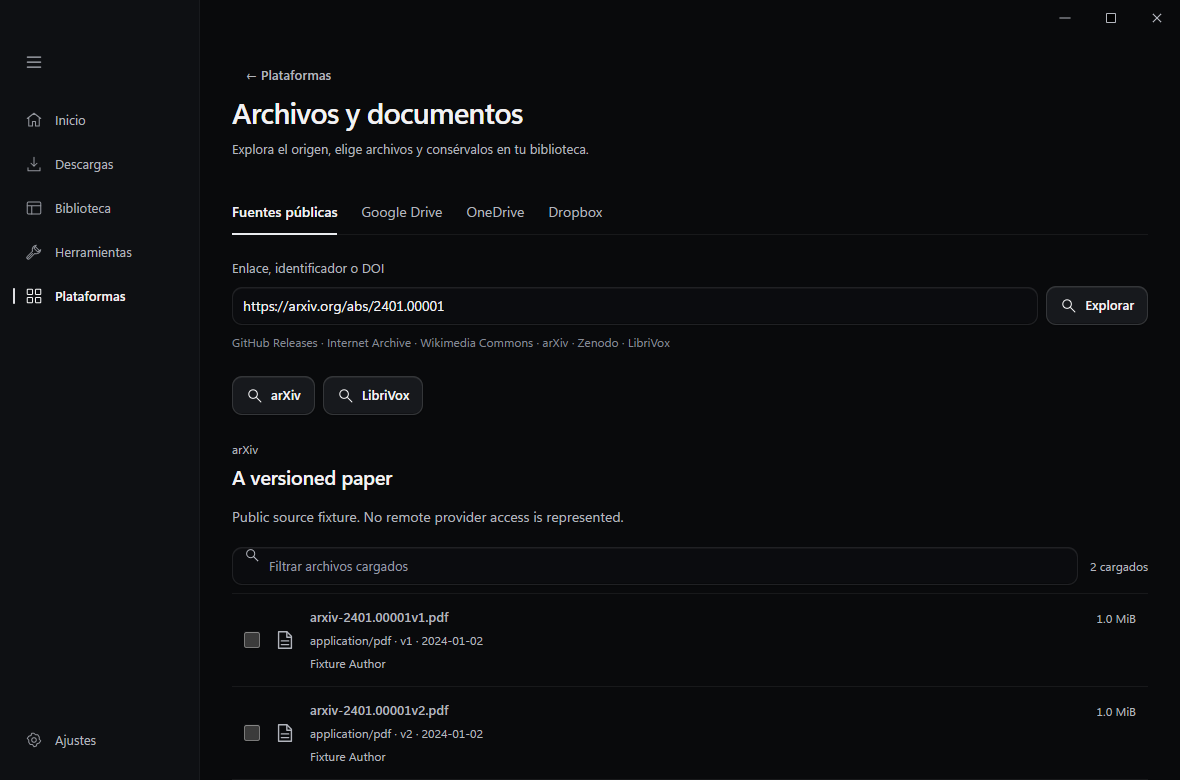
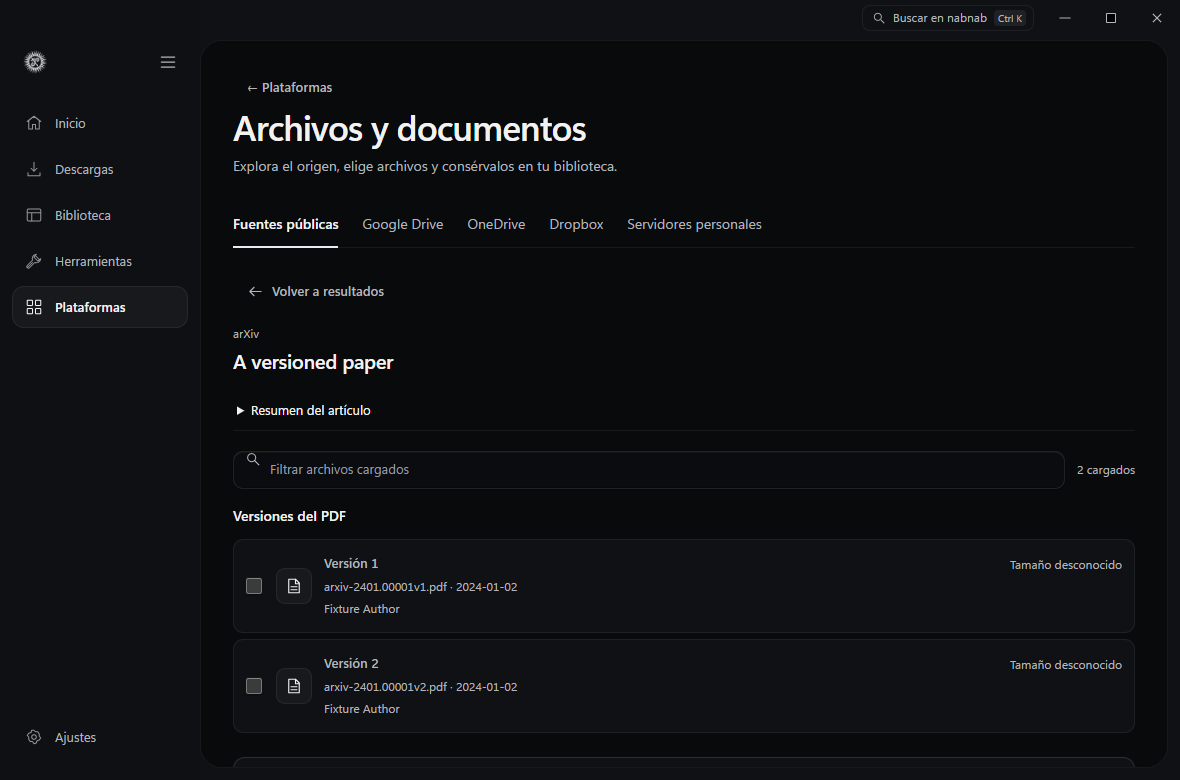
Refine research source browsing

diff --git a/src/file-sources-ui.ts b/src/file-sources-ui.ts
@@ -76,6 +76,7 @@ export function createFileSources(hooks: FileSourceHooks) {
   let arxivField = "title";
   let language = "";
   let publicPage: PublicPage | null = null;
+  let catalogReturn: { page: PublicPage; entryId: string; mode: CatalogSearch | null } | null = null;
   let cloudPage: CloudPage | null = null;
   let connections: ConnectionStatus[] | null = null;
   let connectionEditor: CloudProvider | null = null;
@@ -151,16 +152,36 @@ export function createFileSources(hooks: FileSourceHooks) {
   }
   function matchesPublicFilter(asset: PublicAsset): boolean {
     return (filter === "all" || asset.original === (filter === "original"))
-      && `${asset.filename} ${asset.title} ${asset.mime} ${asset.audiobook?.reader ?? ""}`.toLowerCase().includes(query.toLowerCase());
+      && `${asset.filename} ${asset.title} ${asset.mime} ${asset.version ?? ""} ${asset.audiobook?.reader ?? ""} ${asset.audiobook?.language ?? ""}`.toLowerCase().includes(query.toLowerCase());
+  }
+  function publicDescription(): string {
+    if (!publicPage?.description) return "";
+    const paragraph = `<p class="file-source-description">${h(publicPage.description)}</p>`;
+    if (isCatalogSearch(publicPage)) return paragraph;
+    const summary = publicPage.provider === "arxiv" ? t("Resumen del artículo", "Article abstract")
+      : publicPage.provider === "librivox" ? t("Detalles de la edición", "Edition details") : "";
+    return summary ? `<details class="file-source-abstract"><summary>${summary}</summary>${paragraph}</details>` : paragraph;
   }
   function publicRows(): string {
     if (!publicPage || !publicPage.assets.length && publicPage.entries.length) return "";
+    const { provider, rights } = publicPage;
+    const research = provider === "arxiv" || provider === "librivox";
     const visible = publicPage.assets.filter(matchesPublicFilter);
-    return `${publicPage.provider === "librivox" && visible.length ? `<div class="file-source-pagination">${action("file-source-select-chapters", t("Seleccionar capítulos visibles", "Select visible chapters"), "list", "quiet", busy || publicSelected.size >= 199 ? "disabled" : "")}</div>` : ""}<div class="file-source-list" role="group" aria-label="${t("Archivos disponibles", "Available files")}">${visible.map(asset => {
+    const group = provider === "arxiv" ? t("Versiones del PDF", "PDF versions") : provider === "librivox" ? t("Capítulos", "Chapters") : t("Archivos disponibles", "Available files");
+    const sectionHeading = research ? `<div class="file-source-list-heading"><h3>${group}</h3>${provider === "librivox" && visible.length ? action("file-source-select-chapters", t("Seleccionar capítulos visibles", "Select visible chapters"), "list", "quiet", busy || publicSelected.size >= 199 ? "disabled" : "") : ""}</div>` : "";
+    return `${sectionHeading}<div class="file-source-list${research ? " file-source-research-list" : ""}" role="group" aria-label="${group}">${visible.map(asset => {
       const chapter = asset.audiobook;
-      const title = chapter ? `${t("Capítulo", "Chapter")} ${chapter.chapter} · ${asset.title}` : asset.filename;
-      const metadata = [asset.mime, chapter ? null : asset.version, asset.publishedAt, chapter?.reader, chapter?.language, asset.platform, asset.architecture].filter(Boolean).join(" · ");
-      return `<label class="file-source-row ${publicSelected.has(asset.id) ? "is-selected" : ""}"><input type="checkbox" data-file-source-select="${h(asset.id)}" ${publicSelected.has(asset.id) ? "checked" : ""} ${busy || publicSelected.size >= 199 && !publicSelected.has(asset.id) ? "disabled" : ""}><span class="file-source-file-icon">${icon(asset.mime.startsWith("image/") ? "image" : asset.mime.startsWith("audio/") ? "audio" : "file")}</span><span class="file-source-row-main"><strong>${h(title)}</strong><small>${h(metadata)}</small>${publicPage?.provider === "archive" ? `<small>${asset.original ? t("Original", "Original") : t("Derivado", "Derivative")}</small>` : ""}${asset.author || asset.license ? `<small>${h([asset.author, asset.license].filter(Boolean).join(" · "))}</small>` : ""}${asset.checksum || asset.sha256 ? `<small class="file-source-checksum" title="${h(asset.checksum ?? asset.sha256 ?? "")}">${h(asset.checksum ?? `sha256:${asset.sha256}`)}</small>` : ""}</span><span class="file-source-size">${h(fileSize(asset.size, t))}</span></label>`;
+      const version = provider === "arxiv" ? asset.version?.match(/^v(\d+)$/)?.[1] : undefined;
+      const title = chapter ? asset.title : version ? `${t("Versión", "Version")} ${version}` : asset.filename;
+      const name = chapter ? `${t("Capítulo", "Chapter")} ${chapter.chapter} · ${title}` : version ? `${title} · ${asset.filename}` : "";
+      const metadata = [version ? asset.filename : chapter ? null : asset.mime, chapter || version ? null : asset.version, asset.publishedAt, chapter?.reader, chapter?.language, asset.platform, asset.architecture].filter(Boolean).join(" · ");
+      const attribution = [asset.author, research && rights === asset.license ? null : asset.license].filter(Boolean).join(" · ");
+      const checked = publicSelected.has(asset.id);
+      return `<label class="file-source-row ${checked ? "is-selected" : ""}">
+        <input type="checkbox" data-file-source-select="${h(asset.id)}" ${name ? `aria-label="${h(name)}"` : ""} ${checked ? "checked" : ""} ${busy || publicSelected.size >= 199 && !checked ? "disabled" : ""}>
+        <span class="file-source-file-icon" aria-hidden="true">${chapter ? String(chapter.chapter).padStart(2, "0") : icon(asset.mime.startsWith("image/") ? "image" : asset.mime.startsWith("audio/") ? "audio" : "file")}</span>
+        <span class="file-source-row-main"><strong>${h(title)}</strong>${metadata ? `<small>${h(metadata)}</small>` : ""}${provider === "archive" ? `<small>${asset.original ? t("Original", "Original") : t("Derivado", "Derivative")}</small>` : ""}${attribution ? `<small>${h(attribution)}</small>` : ""}${asset.checksum || asset.sha256 ? `<small class="file-source-checksum" title="${h(asset.checksum ?? asset.sha256 ?? "")}">${h(asset.checksum ?? `sha256:${asset.sha256}`)}</small>` : ""}</span>
+        <span class="file-source-size">${h(fileSize(asset.size, t))}</span></label>`;
     }).join("") || `<p class="file-source-empty">${t("No hay archivos con este filtro.", "No files match this filter.")}</p>`}</div>`;
   }
   function cloudRows(): string {
@@ -179,7 +200,8 @@ export function createFileSources(hooks: FileSourceHooks) {
     if (tab === "public" ? !publicPage?.assets.length : !cloudPage) return "";
     const knownSize = selected.reduce((sum, item) => sum + (item.size ?? 0), 0);
     const unknown = selected.some(item => item.size === null);
-    return `<div class="file-source-selection"><div class="file-source-selection-title"><strong>${selected.length} ${t("seleccionados", "selected")}</strong><span>${selected.length ? h(fileSize(knownSize, t)) + (unknown ? ` + ${t("tamaño pendiente", "unknown size")}` : "") : t("Selecciona los archivos que quieras conservar", "Select the files you want to keep")}</span>${selected.length ? action("file-source-clear", t("Quitar selección", "Clear selection"), undefined, "quiet", busy ? "disabled" : "") : ""}</div><label>${t("Colección, opcional", "Collection, optional")}<input id="file-source-collection" value="${h(collection)}" maxlength="120" placeholder="${t("Sin colección", "No collection")}" ${busy ? "disabled" : ""}></label><div class="file-source-destination"><span>${t("Destino", "Destination")}</span><strong title="${h(hooks.folder())}">${h(hooks.folder())}</strong>${hooks.chooseFolder ? action("file-source-destination", t("Cambiar", "Change"), "folder", "quiet", busy ? "disabled" : "") : ""}</div>${action("file-source-queue", busy === "queue" ? t("Añadiendo…", "Adding…") : t("Añadir a Descargas", "Add to Downloads"), "downloads", "primary", busy || !selected.length ? "disabled" : "")}</div>`;
+    const total = unknown && knownSize === 0 ? fileSize(null, t) : fileSize(knownSize, t) + (unknown ? ` + ${t("tamaño pendiente", "unknown size")}` : "");
+    return `<div class="file-source-selection"><div class="file-source-selection-title"><strong>${selected.length} ${t("seleccionados", "selected")}</strong><span>${selected.length ? h(total) : t("Selecciona los archivos que quieras conservar", "Select the files you want to keep")}</span>${selected.length ? action("file-source-clear", t("Quitar selección", "Clear selection"), undefined, "quiet", busy ? "disabled" : "") : ""}</div><label>${t("Colección, opcional", "Collection, optional")}<input id="file-source-collection" value="${h(collection)}" maxlength="120" placeholder="${t("Sin colección", "No collection")}" ${busy ? "disabled" : ""}></label><div class="file-source-destination"><span>${t("Destino", "Destination")}</span><strong title="${h(hooks.folder())}">${h(hooks.folder())}</strong>${hooks.chooseFolder ? action("file-source-destination", t("Cambiar", "Change"), "folder", "quiet", busy ? "disabled" : "") : ""}</div>${action("file-source-queue", busy === "queue" ? t("Añadiendo…", "Adding…") : t("Añadir a Descargas", "Add to Downloads"), "downloads", "primary", busy || !selected.length ? "disabled" : "")}</div>`;
   }
   function connectionCard(provider: CloudProvider): string {
     const connection = status(provider);
@@ -199,12 +221,13 @@ export function createFileSources(hooks: FileSourceHooks) {
     const hasPage = isPublic ? Boolean(publicPage) : Boolean(cloudPage);
     const cursor = isPublic ? publicPage?.nextCursor : cloudPage?.nextCursor;
     return `${header}
-      ${isPublic ? `<form id="file-source-form" class="file-source-form"><label for="file-source-url">${t("Enlace, identificador o DOI", "Link, identifier or DOI")}</label><div><input id="file-source-url" type="text" required value="${h(url)}" maxlength="8192" placeholder="https://… · arXiv:2401.00001 · 10.5281/zenodo.1234" autocomplete="off" spellcheck="false" ${busy ? "disabled" : ""}><button type="submit" class="button secondary" ${busy ? "disabled" : ""}>${icon("search")}${t("Explorar", "Browse")}</button></div><p class="field-note">GitHub Releases · Internet Archive · Wikimedia Commons · arXiv · Zenodo · LibriVox</p></form>${catalogSearch()}` : `<div class="file-source-cloud-toolbar"><div><strong>${h(cloudName(provider))}</strong><p class="field-note">${t("Solo los archivos a los que tu cuenta tiene acceso.", "Only files your account can access.")}</p></div>${action("file-source-cloud-root", t("Mis archivos", "My files"), "folder", "secondary", busy || !status(provider)?.connected ? "disabled" : "")}${action("cloud-configure-open", t("Conexión", "Connection"), "settings", "quiet", `data-provider="${tab}" ${busy ? "disabled" : ""}`)}</div><form id="cloud-shared-form" class="file-source-form"><label for="cloud-shared-url">${t("Enlace compartido, opcional", "Shared link, optional")}</label><div><input id="cloud-shared-url" type="url" value="${h(sharedUrl ?? "")}" maxlength="8192" placeholder="https://…" autocomplete="off" spellcheck="false" ${busy ? "disabled" : ""}><button class="button secondary" type="submit" ${busy || !status(provider)?.connected ? "disabled" : ""}>${t("Abrir enlace", "Open link")}</button></div></form>${connectionEditor === tab || !status(provider)?.connected ? connectionCard(provider) : ""}`}
+      ${isPublic ? catalogReturn ? "" : `<form id="file-source-form" class="file-source-form"><label for="file-source-url">${t("Enlace, identificador o DOI", "Link, identifier or DOI")}</label><div><input id="file-source-url" type="text" required value="${h(url)}" maxlength="8192" placeholder="https://… · arXiv:2401.00001 · 10.5281/zenodo.1234" autocomplete="off" spellcheck="false" ${busy ? "disabled" : ""}><button type="submit" class="button secondary" ${busy ? "disabled" : ""}>${icon("search")}${t("Explorar", "Browse")}</button></div><p class="field-note">GitHub Releases · Internet Archive · Wikimedia Commons · arXiv · Zenodo · LibriVox</p></form>${catalogSearch()}` : `<div class="file-source-cloud-toolbar"><div><strong>${h(cloudName(provider))}</strong><p class="field-note">${t("Solo los archivos a los que tu cuenta tiene acceso.", "Only files your account can access.")}</p></div>${action("file-source-cloud-root", t("Mis archivos", "My files"), "folder", "secondary", busy || !status(provider)?.connected ? "disabled" : "")}${action("cloud-configure-open", t("Conexión", "Connection"), "settings", "quiet", `data-provider="${tab}" ${busy ? "disabled" : ""}`)}</div><form id="cloud-shared-form" class="file-source-form"><label for="cloud-shared-url">${t("Enlace compartido, opcional", "Shared link, optional")}</label><div><input id="cloud-shared-url" type="url" value="${h(sharedUrl ?? "")}" maxlength="8192" placeholder="https://…" autocomplete="off" spellcheck="false" ${busy ? "disabled" : ""}><button class="button secondary" type="submit" ${busy || !status(provider)?.connected ? "disabled" : ""}>${t("Abrir enlace", "Open link")}</button></div></form>${connectionEditor === tab || !status(provider)?.connected ? connectionCard(provider) : ""}`}
+      ${isPublic && catalogReturn ? `<div class="file-source-return">${action("file-source-back-results", t("Volver a resultados", "Back to results"), "back", "quiet", busy ? "disabled" : "")}</div>` : ""}
       ${error ? `<div class="file-source-error" role="alert">${icon("error")}<span>${h(error)}</span></div>` : ""}${busy === "inspect" || busy === "connect" ? `<div class="file-source-progress" role="status"><span>${busy === "connect" ? t("Esperando autorización en el navegador…", "Waiting for browser authorization…") : t("Consultando archivos del origen…", "Reading source files…")}</span>${action("file-source-cancel", t("Cancelar", "Cancel"), "close", "quiet")}</div>` : ""}
-      ${hasPage ? `<div class="file-source-results"><div class="file-source-result-heading"><div><span class="file-source-eyebrow">${isPublic ? h(publicPage ? publicNames[publicPage.provider] : "") : h(cloudName(provider))}</span><h2>${h(isPublic ? publicPage?.title ?? "" : trail.at(-1)?.name ?? t("Mis archivos", "My files"))}</h2></div>${isPublic && (publicPage?.provider === "github" || isSearch) && hooks.followSource ? action("file-source-follow", isSearch ? t("Seguir búsqueda", "Follow search") : t("Seguir versiones", "Follow releases"), "add", "quiet", busy ? "disabled" : "") : ""}${!isPublic && trail.length ? action("file-source-parent", t("Volver", "Back"), undefined, "quiet", busy ? "disabled" : "") : ""}</div>${isPublic && publicPage?.description ? `<p class="file-source-description">${h(publicPage.description)}</p>` : ""}${isPublic && publicPage?.rights ? `<p class="field-note">${t("Derechos indicados por el origen", "Rights stated by the source")}: ${h(publicPage.rights)}</p>` : ""}${warningList(isPublic ? publicPage?.warnings ?? [] : cloudPage?.warnings ?? [])}
+      ${hasPage ? `<div class="file-source-results"><div class="file-source-result-heading"><div><span class="file-source-eyebrow">${isPublic ? h(publicPage ? publicNames[publicPage.provider] : "") : h(cloudName(provider))}</span><h2${isPublic && catalogReturn ? ' tabindex="-1"' : ""}>${h(isPublic ? publicPage?.title ?? "" : trail.at(-1)?.name ?? t("Mis archivos", "My files"))}</h2></div>${isPublic && (publicPage?.provider === "github" || isSearch) && hooks.followSource ? action("file-source-follow", isSearch ? t("Seguir búsqueda", "Follow search") : t("Seguir versiones", "Follow releases"), "add", "quiet", busy ? "disabled" : "") : ""}${!isPublic && trail.length ? action("file-source-parent", t("Volver", "Back"), undefined, "quiet", busy ? "disabled" : "") : ""}</div>${isPublic ? publicDescription() : ""}${isPublic && publicPage?.rights ? `<p class="field-note">${t("Derechos indicados por el origen", "Rights stated by the source")}: ${h(publicPage.rights)}</p>` : ""}${warningList(isPublic ? publicPage?.warnings ?? [] : cloudPage?.warnings ?? [])}
         ${isPublic && publicPage?.entries.length ? `<div class="file-source-entries">${publicPage.entries.map(entry => `<button type="button" class="file-source-entry" data-action="file-source-entry" data-id="${h(entry.id)}" ${busy ? "disabled" : ""}><span><strong>${h(entry.title)}</strong><small>${h(entry.publishedAt ?? "")}</small></span>${publicPage?.provider === "github" ? `<span class="file-source-status">${entry.prerelease ? "Prerelease" : t("Estable", "Stable")}</span>` : ""}${icon("arrow")}</button>`).join("")}</div>` : ""}
         ${(isPublic ? publicPage?.assets.length : cloudPage?.entries.length) ? `<div class="file-source-filter"><label>${icon("search")}<input id="file-source-query" type="search" value="${h(query)}" placeholder="${t("Filtrar archivos cargados", "Filter loaded files")}" aria-label="${t("Filtrar archivos cargados", "Filter loaded files")}"></label>${isPublic && publicPage?.provider === "archive" ? `<select id="file-source-kind" aria-label="${t("Tipo de archivo", "File type")}">${option("all", t("Originales y derivados", "Originals and derivatives"), filter)}${option("original", t("Solo originales", "Originals only"), filter)}${option("derivative", t("Solo derivados", "Derivatives only"), filter)}</select>` : ""}<span>${isPublic ? publicPage?.assets.length ?? 0 : cloudPage?.entries.length ?? 0} ${t("cargados", "loaded")}</span></div>` : ""}${isPublic ? publicRows() : cloudRows()}
-        ${cursor ? `<div class="file-source-pagination"><p>${t("Solo se ha cargado una parte del origen. La selección incluye únicamente archivos revisados.", "Only part of this source has loaded. Selection includes reviewed files only.")}</p>${action("file-source-more", t("Cargar más", "Load more"), "add", "secondary", busy ? "disabled" : "")}</div>` : !isPublic && cloudPage?.partial ? `<p class="field-note">${t("El origen informa de resultados parciales. Revisa los avisos antes de descargar.", "The source reports partial results. Review warnings before downloading.")}</p>` : ""}</div>` : !busy && isPublic ? `<div class="file-source-intro">${icon("folder")}<h2>${t("Elige qué conservar", "Choose what to keep")}</h2><p>${t("Consulta versiones y archivos antes de descargar. No se selecciona ningún formato automáticamente.", "Review versions and files before downloading. No format is selected automatically.")}</p><div><span>GitHub</span><small>${t("Versiones y assets publicados", "Versions and published assets")}</small><span>Internet Archive</span><small>${t("Originales, derivados y procedencia", "Originals, derivatives and provenance")}</small><span>Commons</span><small>${t("Imágenes y atribución por archivo", "Images and attribution per file")}</small></div></div>` : ""}${selectionFooter()}<p class="file-source-footnote">${t("Descargar conserva una copia local. No ejecuta archivos, instala programas ni modifica el origen.", "Downloading keeps a local copy. It does not run files, install software or modify the source.")}</p></section>`;
+        ${cursor ? `<div class="file-source-pagination"><p>${t("Solo se ha cargado una parte del origen. La selección incluye únicamente archivos revisados.", "Only part of this source has loaded. Selection includes reviewed files only.")}</p>${action("file-source-more", t("Cargar más", "Load more"), "add", "secondary", busy ? "disabled" : "")}</div>` : !isPublic && cloudPage?.partial ? `<p class="field-note">${t("El origen informa de resultados parciales. Revisa los avisos antes de descargar.", "The source reports partial results. Review warnings before downloading.")}</p>` : ""}</div>` : !busy && isPublic && !catalogReturn ? `<div class="file-source-intro">${icon("folder")}<h2>${t("Elige qué conservar", "Choose what to keep")}</h2><p>${t("Consulta versiones y archivos antes de descargar. No se selecciona ningún formato automáticamente.", "Review versions and files before downloading. No format is selected automatically.")}</p><div><span>GitHub</span><small>${t("Versiones y assets publicados", "Versions and published assets")}</small><span>Internet Archive</span><small>${t("Originales, derivados y procedencia", "Originals, derivatives and provenance")}</small><span>Commons</span><small>${t("Imágenes y atribución por archivo", "Images and attribution per file")}</small></div></div>` : ""}${selectionFooter()}<p class="file-source-footnote">${t("Descargar conserva una copia local. No ejecuta archivos, instala programas ni modifica el origen.", "Downloading keeps a local copy. It does not run files, install software or modify the source.")}</p></section>`;
   }
   function handleInput(element: HTMLElement): boolean {
     if (element instanceof HTMLInputElement) {
@@ -236,11 +259,11 @@ export function createFileSources(hooks: FileSourceHooks) {
   }
   async function handleSubmit(form: HTMLFormElement): Promise<boolean> {
     if (form.id === "file-source-form") {
-      if (form.reportValidity()) { searchMode = null; await inspectPublic(); }
+      if (!busy && form.reportValidity()) { catalogReturn = null; searchMode = null; await inspectPublic(); }
       return true;
     }
     if (form.id === "file-source-catalog-form") {
-      if (searchMode && form.reportValidity() && searchQuery.trim()) {
+      if (!busy && searchMode && form.reportValidity() && searchQuery.trim()) {
         const search = new URL(searchMode === "arxiv" ? "https://arxiv.org/search/" : "https://librivox.org/search/");
         if (searchMode === "arxiv") {
           search.searchParams.set("field", arxivField);
@@ -249,6 +272,7 @@ export function createFileSources(hooks: FileSourceHooks) {
           search.searchParams.set("title", searchQuery.trim());
           if (language.trim()) search.searchParams.set("language", language.trim());
         }
+        catalogReturn = null;
         url = search.href;
         await inspectPublic();
       }
@@ -274,12 +298,36 @@ export function createFileSources(hooks: FileSourceHooks) {
         const value = element.dataset.tab;
         if (value === "personal") { openPersonal(); await hooks.loadPersonal(); break; }
         if (busy || value !== "public" && (!value || !isCloud(value))) break;
-        tab = value; error = ""; cloudPage = null; publicPage = null; url = ""; folder = null; sharedUrl = null; trail = []; clearSelection(); hooks.render();
+        tab = value; error = ""; cloudPage = null; publicPage = null; catalogReturn = null; url = ""; folder = null; sharedUrl = null; trail = []; clearSelection(); hooks.render();
         if (value !== "public") { await loadConnections(); if (status(value)?.connected) await browseCloud(); }
       } break;
       case "file-source-entry": {
         const entry = publicPage?.entries.find(value => value.id === element.dataset.id);
-        if (entry && !busy) { url = entry.url; searchMode = null; await inspectPublic(); }
+        if (entry && !busy) {
+          if (publicPage && isCatalogSearch(publicPage)) catalogReturn = { page: publicPage, entryId: entry.id, mode: searchMode };
+          url = entry.url;
+          searchMode = null;
+          await inspectPublic();
+          if (catalogReturn) {
+            const target = document.querySelector<HTMLElement>(".file-source-result-heading h2[tabindex='-1']")
+              ?? document.querySelector<HTMLElement>('[data-action="file-source-back-results"]');
+            target?.focus();
+          }
+        }
+      } break;
+      case "file-source-back-results": {
+        if (!catalogReturn || busy) break;
+        const { page, entryId, mode } = catalogReturn;
+        catalogReturn = null;
+        publicPage = page;
+        url = page.sourceUrl;
+        searchMode = mode;
+        error = "";
+        query = "";
+        filter = "all";
+        publicSelected.clear();
+        hooks.render();
+        document.querySelector<HTMLElement>(`[data-action="file-source-entry"][data-id="${CSS.escape(entryId)}"]`)?.focus();
       } break;
       case "file-source-folder": {
         const entry = cloudPage?.entries.find(value => value.selection.id === element.dataset.id && value.kind === "folder");
@@ -366,6 +414,7 @@ export function createFileSources(hooks: FileSourceHooks) {
     if (busy) return;
     tab = "public";
     publicPage = null;
+    catalogReturn = null;
     clearSelection();
     error = "";
     url = "";
@@ -381,7 +430,7 @@ export function createFileSources(hooks: FileSourceHooks) {
     let host = "";
     try { host = new URL(input).hostname.toLowerCase(); } catch { /* The provider returns the actionable URL error. */ }
     const cloud: CloudProvider | null = host === "drive.google.com" || host === "docs.google.com" ? "drive" : host === "1drv.ms" || host === "onedrive.live.com" || host.endsWith(".sharepoint.com") ? "onedrive" : host === "dropbox.com" || host.endsWith(".dropbox.com") ? "dropbox" : null;
-    clearSelection(); publicPage = null; cloudPage = null; query = ""; folder = null; trail = [];
+    clearSelection(); publicPage = null; catalogReturn = null; cloudPage = null; query = ""; folder = null; trail = [];
     if (cloud) { tab = cloud; sharedUrl = input; await loadConnections(); if (status(cloud)?.connected) await browseCloud(); else hooks.render(); }
     else { tab = "public"; url = input; searchMode = null; sharedUrl = null; await inspectPublic(); }
   }

diff --git a/src/file-sources.css b/src/file-sources.css
@@ -19,6 +19,12 @@
 .file-source-result-heading h2 { margin: 4px 0 0; font-size: 20px; font-weight: 600; letter-spacing: -.3px; overflow-wrap: anywhere; }
 .file-source-eyebrow { font-size: 12px; color: var(--muted); }
 .file-source-description { color: var(--muted); white-space: pre-line; overflow-wrap: anywhere; max-height: 160px; overflow: auto; margin-bottom: 16px; }
+.file-source-return { margin-top: 16px; }
+.file-source-return + .file-source-results { margin-top: 12px; }
+.file-source-abstract { margin-bottom: 16px; border-bottom: 1px solid var(--edge-quiet); }
+.file-source-abstract > summary { padding: 10px 4px; font-size: 13px; cursor: pointer; }
+.file-source-abstract > .file-source-description { max-height: none; margin: 4px 4px 14px; max-width: 74ch; }
+.file-source-abstract > summary:focus-visible, .file-source-result-heading h2[tabindex]:focus-visible { outline: 2px solid var(--action); outline-offset: 2px; border-radius: 4px; }
 .file-source-warnings { list-style: disc; padding: 12px 16px 12px 32px; margin: 16px 0; border-left: 2px solid var(--muted); background: var(--secondary); color: var(--muted); font-size: 13px; }
 .file-source-warnings li + li { margin-top: 8px; }
 .file-source-entries { border-block: 1px solid var(--edge-quiet); }
@@ -46,6 +52,15 @@ label.file-source-row { cursor: pointer; }
 .file-source-row-main strong { display: block; font-weight: 500; overflow-wrap: anywhere; }
 .file-source-row-main small { display: block; color: var(--muted); font-size: 12px; margin-top: 4px; overflow-wrap: anywhere; }
 .file-source-size { font-size: 12px; color: var(--muted); white-space: nowrap; align-self: start; padding-top: 2px; }
+.file-source-list-heading { display: flex; align-items: center; justify-content: space-between; flex-wrap: wrap; gap: 4px 12px; margin: 12px 0 8px; min-height: 30px; }
+.file-source-list-heading > h3 { margin: 0; font-size: 14px; font-weight: 600; }
+.file-source-research-list { display: grid; gap: 6px; border: 0; }
+.file-source-research-list .file-source-row { grid-template-columns: 18px 36px minmax(0, 1fr) auto; border: 1px solid var(--edge-quiet); border-radius: 10px; background: var(--secondary); }
+.file-source-research-list .file-source-row.is-selected { background: var(--surface); border-color: var(--action); }
+.file-source-research-list .file-source-row:has(input:focus-visible) { outline: 2px solid var(--action); outline-offset: 2px; }
+.file-source-research-list .file-source-file-icon { display: grid; place-items: center; width: 36px; height: 36px; border: 1px solid var(--edge-quiet); border-radius: 9px; background: var(--surface); color: var(--text); font-variant-numeric: tabular-nums; font-weight: 600; }
+.file-source-research-list .file-source-file-icon svg { width: 18px; height: 18px; }
+.file-source-research-list .file-source-row-main strong { font-weight: 600; }
 .file-source-folder { display: block; min-width: 0; background: none; border: 0; color: var(--text); font: inherit; text-align: left; padding: 4px 0; cursor: pointer; }
 .file-source-folder strong { display: block; font-weight: 500; overflow-wrap: anywhere; }
 .file-source-folder small { display: block; margin-top: 4px; color: var(--muted); font-size: 12px; overflow-wrap: anywhere; }
@@ -94,6 +109,7 @@ label.file-source-row { cursor: pointer; }
   .file-source-tabs button:hover:not(:disabled) { color: var(--text); }
   .file-source-row:hover, .file-source-entry:hover:not(:disabled) { background: var(--hover); }
   .file-source-folder:hover:not(:disabled) { color: var(--action); }
+  .file-source-research-list .file-source-row:hover:not(.is-selected):has(input:enabled) { background: var(--hover); }
 }
 @media (max-width: 1050px) {
   .file-source-selection { position: static; grid-template-columns: minmax(0, 1fr) auto; padding: 16px; }
@@ -103,6 +119,7 @@ label.file-source-row { cursor: pointer; }
 @media (max-width: 700px) {
   .file-source-tabs { gap: 4px 16px; }
   .file-source-row { gap: 8px; padding-inline: 8px; grid-template-columns: 18px 20px minmax(0, 1fr); }
+  .file-source-research-list .file-source-row { grid-template-columns: 18px 36px minmax(0, 1fr); }
   .file-source-size { grid-column: 3; padding-top: 0; }
   .file-source-form > div { flex-wrap: wrap; }
   .file-source-form input { min-width: 180px; }

diff --git a/docs/RESEARCH-SOURCES.md b/docs/RESEARCH-SOURCES.md
@@ -1,11 +1,11 @@
 # Investigación y audiolibros
 
-En **Plataformas → Archivos y documentos**, pega un enlace, un identificador o un DOI. Selecciona los archivos, revisa el tamaño y el destino, y usa **Añadir a Descargas**. También puedes pegar enlaces de estos orígenes en Inicio. Las búsquedas de arXiv y LibriVox se pueden guardar en **Biblioteca → Fuentes** para revisarlas manualmente.
+En **Plataformas → Archivos y documentos**, pega un enlace, un identificador o un DOI. Selecciona los archivos, revisa el tamaño y el destino, y usa **Añadir a Descargas**. También puedes pegar enlaces de estos orígenes en Inicio. Las búsquedas de arXiv y LibriVox se pueden guardar en **Biblioteca → Fuentes** para revisarlas manualmente. Dentro de una ficha, **Volver a resultados** recupera las páginas ya cargadas y devuelve el foco a la fila que abriste.
 
 ## arXiv
 
 - Busca por título, autor o categoría. Puedes abrir un identificador como `arXiv:2401.00001` o un enlace de artículo.
-- La ficha contiene metadatos y, si existe, un resumen. El PDF se ofrece por versión. La referencia guardada identifica la versión exacta y conserva autores, fecha y licencia cuando los informa el origen.
+- Cada PDF tiene su propia fila con número de versión, nombre de archivo y fecha si el origen la indica. Puedes desplegar el resumen en la misma ficha. La referencia guardada identifica la versión exacta y conserva autores, fecha y licencia cuando los informa el origen.
 - La búsqueda consulta hasta 20 resultados por página y 200 por búsqueda. La API Atom se consulta de una en una, con tres segundos entre peticiones y una caché acotada en memoria.
 
 [Manual de la API](https://info.arxiv.org/help/api/user-manual.html) · [Condiciones de la API](https://info.arxiv.org/help/api/tou.html) · [Disponibilidad por versión](https://info.arxiv.org/help/versions.html)
@@ -32,7 +32,11 @@ El flujo de Rocketseat, Coursera, Domestika y Skillshare utiliza el sitio oficia
 
 ## Comprobaciones
 
-Las capturas usan fixtures de interfaz. Las pruebas Rust cubren identidad por versión, lectura de metadatos, capítulos ordenados y seguimiento manual. Se consultó en vivo la ficha Atom de una versión de arXiv. En Zenodo se comprobó el formato del registro, la búsqueda por conjunto y la respuesta de un archivo público de 450 bytes. La consulta en vivo de LibriVox agotó el tiempo de espera.
+Las capturas usan datos de prueba. La prueba de interfaz recorre la selección por versión, el retorno con teclado tras paginar o encontrar un error, y la selección de capítulos en ventanas de 1180 × 780 y 900 × 620. Las pruebas Rust cubren identidad por versión, lectura de metadatos, capítulos ordenados y seguimiento manual.
+
+La prueba nativa descargó dos versiones distintas del mismo PDF de arXiv y comprobó que ambas se conservan. Descargó un CSV de Zenodo de 450 bytes y verificó el MD5 publicado. Descargó dos capítulos de LibriVox en orden inverso y comprobó el orden de lectura en Biblioteca. [Artículo de arXiv](https://arxiv.org/abs/2506.08399) · [Registro de Zenodo](https://zenodo.org/records/14634897) · [Edición de LibriVox](https://librivox.org/aesops-fables-volume-1-fables-1-25/)
+
+Para repetir la prueba nativa, inicia Vite en el puerto 1420 y ejecuta `node tests/native-research.browser.mjs` con Playwright y el ejecutable de depuración de Windows disponibles. Los archivos y el perfil de prueba quedan en `artifacts/native-research`.
 
 ![Selección de PDF por versión de arXiv](arxiv-versions.png)
 
